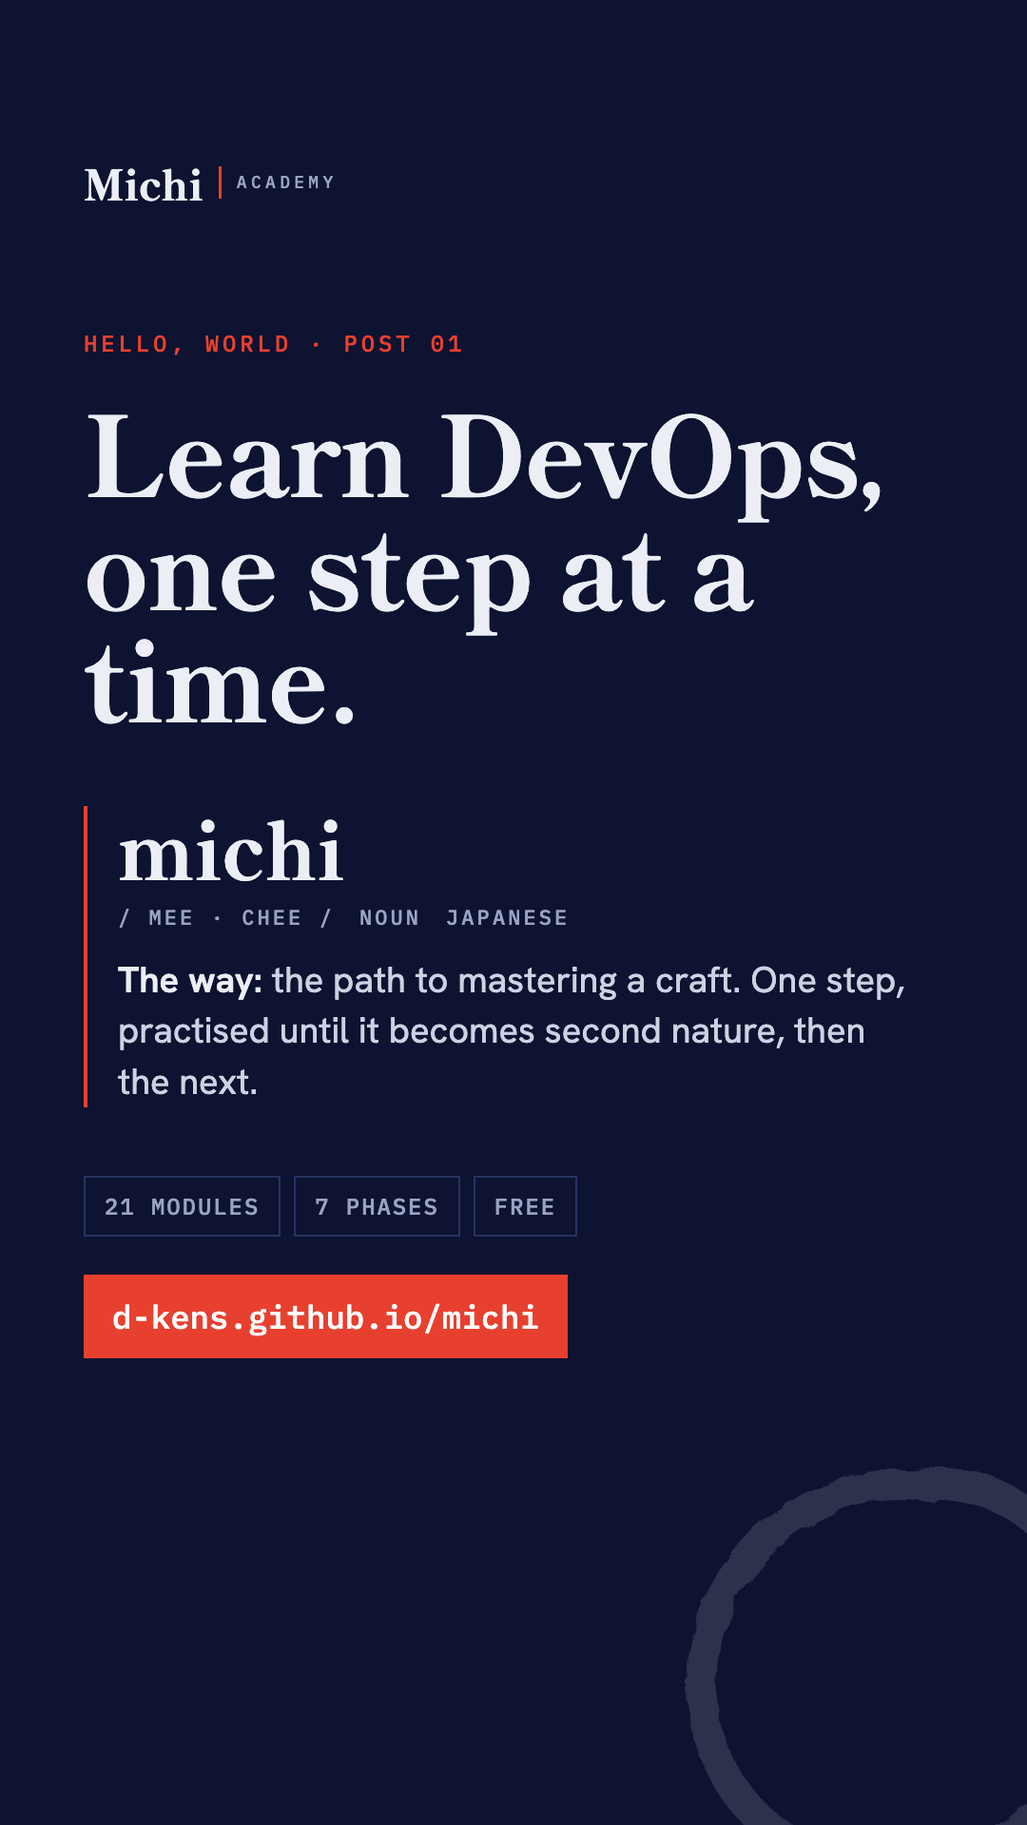
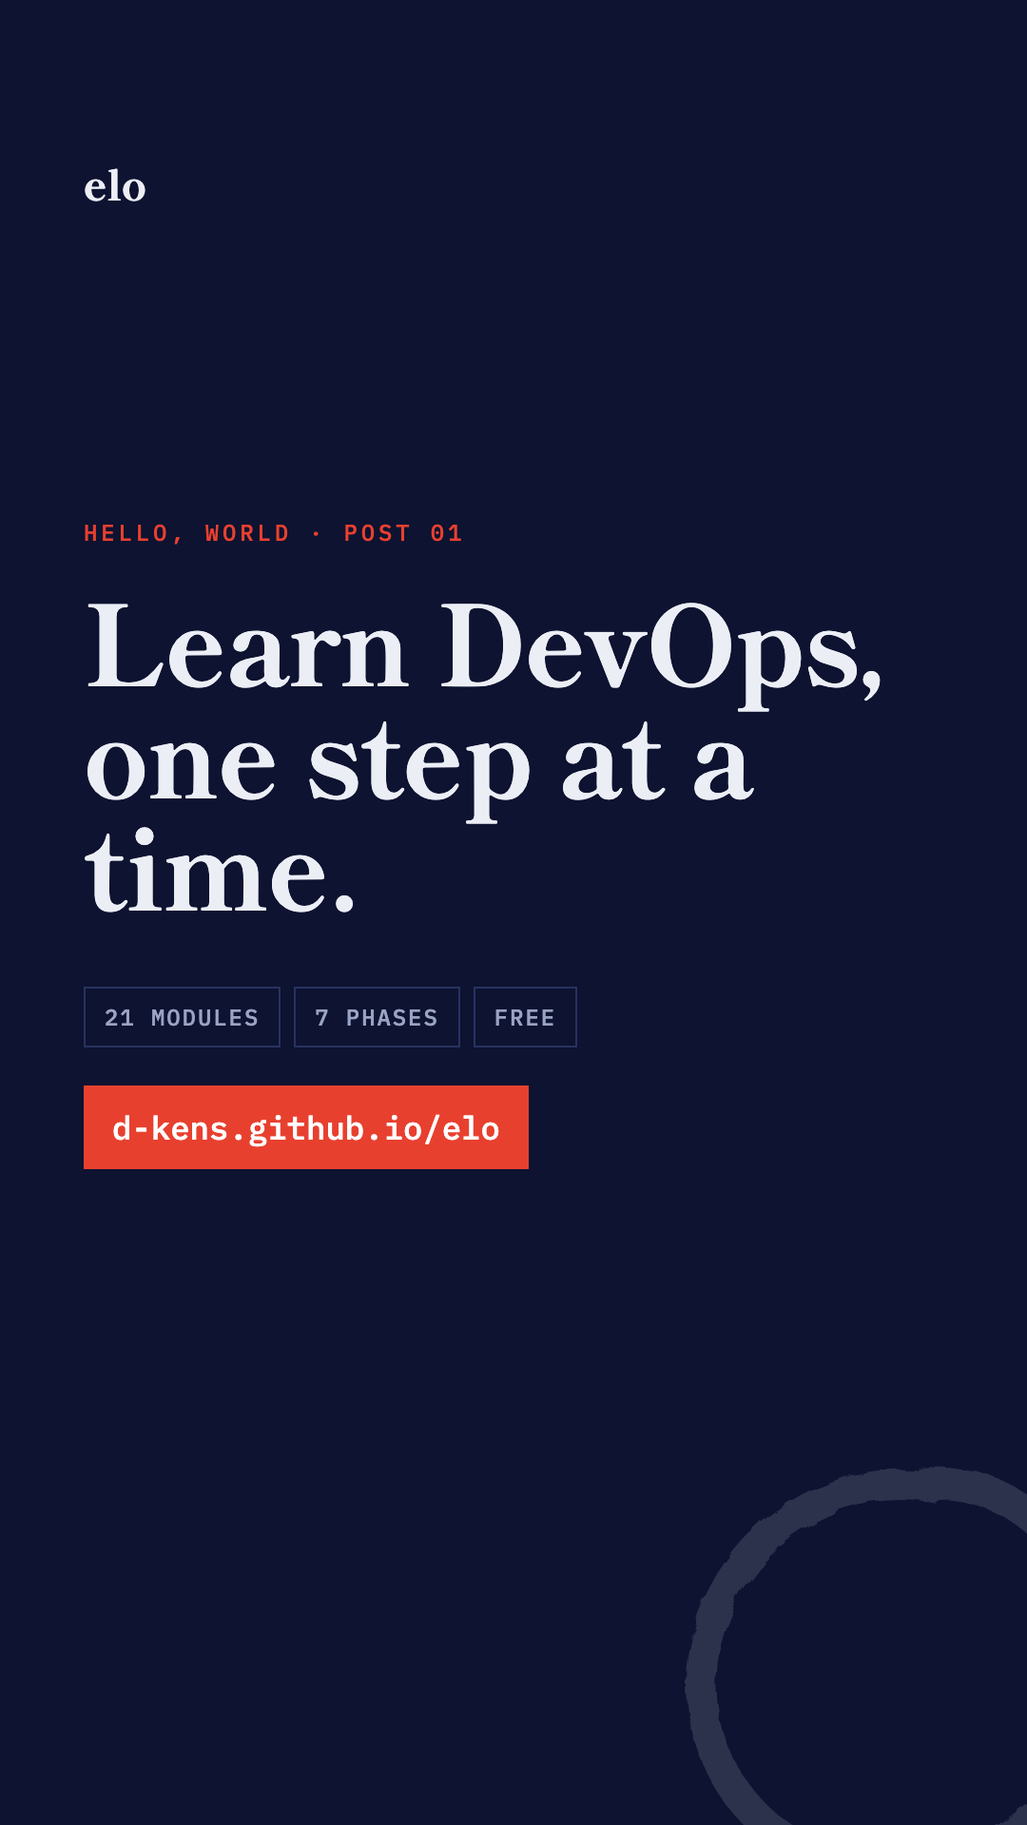
Rename the site to elo and drop the michi definition

Changed region(s): [[0.0611, 0.2188, 0.8861, 0.75], [0.0917, 0.0938, 0.2139, 0.125], [0.55, 0.4062, 0.6417, 0.4375]]

diff --git a/build.js b/build.js
@@ -8,9 +8,9 @@ const { marked } = require('./vendor/marked.min.js');
 const hljs = require('./vendor/highlight.min.js');
 const { NOTES, PHASES, MODULES } = require('./curriculum.js');
 
-const SITE = 'https://d-kens.github.io/michi';       /* the live address, without a trailing slash */
-const BASE = new URL(SITE).pathname + '/';              /* '/michi/': the 404 page needs absolute links */
-const NAME = 'Michi Academy';
+const SITE = 'https://d-kens.github.io/elo';       /* the live address, without a trailing slash */
+const BASE = new URL(SITE).pathname + '/';              /* '/elo/': the 404 page needs absolute links */
+const NAME = 'elo';
 const HOME_DESC = 'Learn DevOps, one step at a time. Detailed notes for a step-by-step path, from the DevOps mindset to running systems in production.';
 const ASSETS = ['styles.css', 'theme.js', 'search.js', 'notes.js', 'favicon.svg', 'og-image.png'];
 const LABEL = { published: 'Notes published', progress: 'In progress', coming: 'Coming' };
@@ -80,7 +80,7 @@ ${share}
 
 <div class="wrap">
   <nav aria-label="Site">
-    <a class="logo" href="${r}index.html" aria-label="${NAME}"><span class="logo-word" aria-hidden="true">Michi</span><span class="logo-rest" aria-hidden="true">Academy</span></a>
+    <a class="logo" href="${r}index.html" aria-label="${NAME}"><span class="logo-word" aria-hidden="true">elo</span></a>
     <ul>
       ${navLink('paths.html', 'The path', 'paths')}
       ${navLink('search.html', 'Search', 'search')}
@@ -202,7 +202,7 @@ fs.rmSync(OUT, { recursive: true, force: true });
 ASSETS.forEach((f) => { fs.mkdirSync(OUT, { recursive: true }); fs.copyFileSync(path.join(ROOT, f), path.join(OUT, f)); });
 
 write('index.html', layout({ url: '', description: HOME_DESC, body: read('src/pages/index.html').replace('<!-- PATH AT A GLANCE: filled in by build.js -->', glance()) }));
-write('search.html', layout({ url: 'search.html', title: 'Search', description: 'Search the Michi Academy DevOps notes and curriculum.',
+write('search.html', layout({ url: 'search.html', title: 'Search', description: 'Search the elo DevOps notes and curriculum.',
   current: 'search', body: read('src/pages/search.html'), scripts: ['search.js'] }));
 write('404.html', layout({ root: BASE, title: 'Page not found', noindex: true, body: read('src/pages/404.html').replace(/href="(?![a-z]+:|\/|#)/g, `href="${BASE}`) }));
 write('paths.html', layout({ url: 'paths.html', title: 'The path', current: 'paths', body: pathsPage(),
@@ -219,7 +219,7 @@ published.forEach((m) => {
   searchIndex.push(...notes.entries);
   write(`notes/${m.slug}.html`, layout({
     root: '../', url: `notes/${m.slug}.html`, title: m.title, ogType: 'article', current: 'paths', currentKind: 'true',
-    description: `Notes for Module ${m.num} of the Michi Academy DevOps path: ${m.title}. ${m.tags.join(', ')}.`,
+    description: `Notes for Module ${m.num} of the elo DevOps path: ${m.title}. ${m.tags.join(', ')}.`,
     body: notesPage(m, notes), scripts: ['notes.js']
   }));
 });

diff --git a/styles.css b/styles.css
@@ -31,10 +31,9 @@ button { font-family: inherit; }
 .link { font-weight: 700; text-decoration: underline; text-decoration-thickness: 2px; text-underline-offset: 6px; text-decoration-color: var(--red); }
 
 .wrap > nav { display: flex; align-items: center; justify-content: space-between; gap: 16px 28px; flex-wrap: wrap; padding-block: 24px; }
-/* wordmark: "Michi" in the display serif, "ACADEMY" in spaced mono caps, like the site's labels */
+/* wordmark: "elo" in the display serif */
 .logo { display: flex; align-items: center; gap: 12px; text-decoration: none; }
 .logo-word { font: 800 26px/1 var(--f-display); letter-spacing: -0.01em; }
-.logo-rest { font: 500 11.5px/1 var(--f-mono); letter-spacing: .24em; text-transform: uppercase; color: var(--muted); padding: 5px 0 5px 12px; margin-top: 3px; border-left: 2px solid var(--red); }
 .wrap > nav ul { display: flex; gap: 28px; list-style: none; margin: 0 0 0 auto; padding: 0; font: 500 12.5px var(--f-mono); letter-spacing: .12em; text-transform: uppercase; }
 .wrap > nav ul a { text-decoration: none; color: var(--muted); }
 .wrap > nav ul a:hover, .wrap > nav ul a[aria-current] { color: var(--fg); }
@@ -52,7 +51,6 @@ button { font-family: inherit; }
   .wrap > nav ul a[aria-current] { text-decoration: underline; text-decoration-color: var(--red); text-decoration-thickness: 2px; text-underline-offset: 6px; }
   .theme-toggle { width: 40px; height: 40px; margin: 0 0 0 4px; }
 }
-@media (max-width: 419px) { .logo-rest { display: none; } }
 
 /* home */
 .home { position: relative; }
@@ -73,16 +71,6 @@ section { padding-block: 88px; }
 @keyframes stamp { from { transform: scale(1.8); opacity: 0; } to { transform: scale(1); opacity: 1; } }
 @media (max-width: 899px) { .enso { right: -12%; top: 40px; width: min(90vw, 380px); opacity: .3; } .stamp { display: none; } }
 
-/* definition of the name */
-.home > .define { padding-block: 0 88px; }
-.define .entry { max-width: 48em; }
-.define .word { font: 800 clamp(32px, 4vw, 48px)/1.06 var(--f-display); letter-spacing: .01em; }
-.define .word span { color: var(--red); padding-inline: .05em; }
-.define .pron { display: flex; flex-wrap: wrap; gap: 6px 22px; margin-top: 8px; }
-.define .pron span + span::before { content: "·"; margin-right: 22px; color: var(--red); }
-.define .gloss { font: 500 16px/1.5 var(--f-display); margin-top: 12px; max-width: 38em; color: var(--muted); }
-.define .gloss em { font-style: normal; text-decoration: underline; text-decoration-color: var(--red); text-decoration-thickness: 2px; text-underline-offset: 5px; }
-@media (max-width: 860px) { .define .pron span + span::before { display: none; } }
 /* the path at a glance */
 .home > .glance { padding-top: 0; }
 .glance h2 { font-size: clamp(32px, 4.4vw, 54px); margin-top: 10px; }

diff --git a/brand/posts/src/tiktok-launch-1080x1920.html b/brand/posts/src/tiktok-launch-1080x1920.html
@@ -11,30 +11,19 @@ html,body{margin:0;background:var(--bg);color:var(--fg);overflow:hidden}
 .top,.body{position:relative;z-index:1}
 .logo{display:flex;align-items:center;gap:16px}
 .logo b{font:800 44px/1 var(--d)}
-.logo span{font:500 18px/1 var(--m);letter-spacing:.24em;color:var(--muted);padding:8px 0 8px 16px;border-left:3px solid var(--red)}
 .body{flex:1;display:flex;flex-direction:column;justify-content:center}
 .k{font:500 24px var(--m);letter-spacing:.16em;text-transform:uppercase;color:var(--red);margin-bottom:36px}
 h1{font:800 116px/1.02 var(--d);letter-spacing:-.01em}
-.def{margin-top:80px;padding-left:32px;border-left:4px solid var(--red)}
-.word{font:800 84px/1 var(--d)}
-.pron{display:flex;gap:26px;font:500 22px var(--m);letter-spacing:.14em;text-transform:uppercase;color:var(--muted);margin:18px 0 26px}
-.gloss{font:400 38px/1.4 var(--b);color:var(--read)}
-.gloss b{color:var(--fg);font-weight:600}
 .facts{display:flex;gap:14px;flex-wrap:wrap;margin-top:72px}
 .facts span{font:500 24px var(--m);letter-spacing:.08em;text-transform:uppercase;padding:14px 20px;border:2px solid var(--line);color:var(--muted)}
 .url{display:inline-block;margin-top:40px;font:500 34px var(--m);padding:22px 30px;background:var(--red);color:#fff}
 </style></head><body><div class="c">
 <svg class="enso" viewBox="0 0 520 520"><defs><filter id="r" x="-10%" y="-10%" width="120%" height="120%"><feTurbulence type="fractalNoise" baseFrequency="0.035" numOctaves="3" seed="7" result="n"/><feDisplacementMap in="SourceGraphic" in2="n" scale="9"/></filter></defs><g filter="url(#r)" fill="none" stroke-linecap="round" stroke="#eceef6"><path stroke-width="30" d="M 292 74 C 410 70 480 190 456 300 C 432 412 308 478 200 444 C 92 410 40 290 92 186 C 130 110 214 66 292 78"/></g></svg>
-<div class="top"><div class="logo"><b>Michi</b><span>ACADEMY</span></div></div>
+<div class="top"><div class="logo"><b>elo</b></div></div>
 <div class="body">
   <p class="k">Hello, world · Post 01</p>
   <h1>Learn DevOps, one step at a time.</h1>
-  <div class="def">
-    <p class="word">michi</p>
-    <p class="pron"><span>/ mee · chee /</span><span>noun</span><span>Japanese</span></p>
-    <p class="gloss"><b>The way:</b> the path to mastering a craft. One step, practised until it becomes second nature, then the next.</p>
-  </div>
   <div class="facts"><span>21 modules</span><span>7 phases</span><span>Free</span></div>
-  <p><span class="url">d-kens.github.io/michi</span></p>
+  <p><span class="url">d-kens.github.io/elo</span></p>
 </div>
 </div></body></html>

diff --git a/brand/src/banner-linkedin-1584x396.html b/brand/src/banner-linkedin-1584x396.html
@@ -9,4 +9,4 @@ h1{font:800 var(--h)/1.04 "Shippori Mincho B1",serif;margin:0}
 .w{font:800 calc(var(--k)*1.6) "Shippori Mincho B1",serif;letter-spacing:.01em;color:#eceef6}
 .enso{position:absolute}
 .t{position:absolute;z-index:1}
-.enso{left:70px;top:-120px;width:560px;opacity:.9}.t{right:80px;top:70px;text-align:right}.f{justify-content:flex-end}</style></head><body><div class="c" style="width:1584px;height:396px;--k:15px;--h:56px;--g:14px;--g2:22px"><svg class="enso" viewBox="0 0 520 520"><defs><filter id="r" x="-10%" y="-10%" width="120%" height="120%"><feTurbulence type="fractalNoise" baseFrequency="0.035" numOctaves="3" seed="7" result="n"/><feDisplacementMap in="SourceGraphic" in2="n" scale="9"/></filter></defs><g filter="url(#r)" fill="none" stroke-linecap="round" stroke="#eceef6"><path stroke-width="30" opacity=".92" d="M 292 74 C 410 70 480 190 456 300 C 432 412 308 478 200 444 C 92 410 40 290 92 186 C 130 110 214 66 292 78"/><path stroke-width="10" opacity=".5" d="M 300 96 C 398 100 452 196 432 290 C 410 392 304 450 212 420"/></g><rect x="396" y="406" width="64" height="64" rx="4" fill="#e8402f" transform="rotate(-4 428 438)"/></svg><div class="t"><h1>Learn DevOps,<br>one step at a time.</h1><div class="f"><span class="w">Michi Academy</span></div></div></div></body></html>
+.enso{left:70px;top:-120px;width:560px;opacity:.9}.t{right:80px;top:70px;text-align:right}.f{justify-content:flex-end}</style></head><body><div class="c" style="width:1584px;height:396px;--k:15px;--h:56px;--g:14px;--g2:22px"><svg class="enso" viewBox="0 0 520 520"><defs><filter id="r" x="-10%" y="-10%" width="120%" height="120%"><feTurbulence type="fractalNoise" baseFrequency="0.035" numOctaves="3" seed="7" result="n"/><feDisplacementMap in="SourceGraphic" in2="n" scale="9"/></filter></defs><g filter="url(#r)" fill="none" stroke-linecap="round" stroke="#eceef6"><path stroke-width="30" opacity=".92" d="M 292 74 C 410 70 480 190 456 300 C 432 412 308 478 200 444 C 92 410 40 290 92 186 C 130 110 214 66 292 78"/><path stroke-width="10" opacity=".5" d="M 300 96 C 398 100 452 196 432 290 C 410 392 304 450 212 420"/></g><rect x="396" y="406" width="64" height="64" rx="4" fill="#e8402f" transform="rotate(-4 428 438)"/></svg><div class="t"><h1>Learn DevOps,<br>one step at a time.</h1><div class="f"><span class="w">elo</span></div></div></div></body></html>

diff --git a/brand/src/banner-x-1500x500.html b/brand/src/banner-x-1500x500.html
@@ -9,4 +9,4 @@ h1{font:800 var(--h)/1.04 "Shippori Mincho B1",serif;margin:0}
 .w{font:800 calc(var(--k)*1.6) "Shippori Mincho B1",serif;letter-spacing:.01em;color:#eceef6}
 .enso{position:absolute}
 .t{position:absolute;z-index:1}
-.enso{left:40px;top:-140px;width:660px;opacity:.9}.t{right:80px;top:96px;text-align:right}.f{justify-content:flex-end}</style></head><body><div class="c" style="width:1500px;height:500px;--k:16px;--h:64px;--g:16px;--g2:26px"><svg class="enso" viewBox="0 0 520 520"><defs><filter id="r" x="-10%" y="-10%" width="120%" height="120%"><feTurbulence type="fractalNoise" baseFrequency="0.035" numOctaves="3" seed="7" result="n"/><feDisplacementMap in="SourceGraphic" in2="n" scale="9"/></filter></defs><g filter="url(#r)" fill="none" stroke-linecap="round" stroke="#eceef6"><path stroke-width="30" opacity=".92" d="M 292 74 C 410 70 480 190 456 300 C 432 412 308 478 200 444 C 92 410 40 290 92 186 C 130 110 214 66 292 78"/><path stroke-width="10" opacity=".5" d="M 300 96 C 398 100 452 196 432 290 C 410 392 304 450 212 420"/></g><rect x="396" y="406" width="64" height="64" rx="4" fill="#e8402f" transform="rotate(-4 428 438)"/></svg><div class="t"><h1>Learn DevOps,<br>one step at a time.</h1><div class="f"><span class="w">Michi Academy</span></div></div></div></body></html>
+.enso{left:40px;top:-140px;width:660px;opacity:.9}.t{right:80px;top:96px;text-align:right}.f{justify-content:flex-end}</style></head><body><div class="c" style="width:1500px;height:500px;--k:16px;--h:64px;--g:16px;--g2:26px"><svg class="enso" viewBox="0 0 520 520"><defs><filter id="r" x="-10%" y="-10%" width="120%" height="120%"><feTurbulence type="fractalNoise" baseFrequency="0.035" numOctaves="3" seed="7" result="n"/><feDisplacementMap in="SourceGraphic" in2="n" scale="9"/></filter></defs><g filter="url(#r)" fill="none" stroke-linecap="round" stroke="#eceef6"><path stroke-width="30" opacity=".92" d="M 292 74 C 410 70 480 190 456 300 C 432 412 308 478 200 444 C 92 410 40 290 92 186 C 130 110 214 66 292 78"/><path stroke-width="10" opacity=".5" d="M 300 96 C 398 100 452 196 432 290 C 410 392 304 450 212 420"/></g><rect x="396" y="406" width="64" height="64" rx="4" fill="#e8402f" transform="rotate(-4 428 438)"/></svg><div class="t"><h1>Learn DevOps,<br>one step at a time.</h1><div class="f"><span class="w">elo</span></div></div></div></body></html>

diff --git a/brand/src/github-social-1280x640.html b/brand/src/github-social-1280x640.html
@@ -9,4 +9,4 @@ h1{font:800 var(--h)/1.04 "Shippori Mincho B1",serif;margin:0}
 .w{font:800 calc(var(--k)*1.6) "Shippori Mincho B1",serif;letter-spacing:.01em;color:#eceef6}
 .enso{position:absolute}
 .t{position:absolute;z-index:1}
-.enso{right:50px;top:90px;width:470px}.t{left:84px;top:150px;max-width:720px}</style></head><body><div class="c" style="width:1280px;height:640px;--k:20px;--h:72px;--g:26px;--g2:44px"><svg class="enso" viewBox="0 0 520 520"><defs><filter id="r" x="-10%" y="-10%" width="120%" height="120%"><feTurbulence type="fractalNoise" baseFrequency="0.035" numOctaves="3" seed="7" result="n"/><feDisplacementMap in="SourceGraphic" in2="n" scale="9"/></filter></defs><g filter="url(#r)" fill="none" stroke-linecap="round" stroke="#eceef6"><path stroke-width="30" opacity=".92" d="M 292 74 C 410 70 480 190 456 300 C 432 412 308 478 200 444 C 92 410 40 290 92 186 C 130 110 214 66 292 78"/><path stroke-width="10" opacity=".5" d="M 300 96 C 398 100 452 196 432 290 C 410 392 304 450 212 420"/></g><rect x="396" y="406" width="64" height="64" rx="4" fill="#e8402f" transform="rotate(-4 428 438)"/></svg><div class="t"><h1>Learn DevOps,<br>one step at a time.</h1><div class="f"><span class="w">Michi Academy</span></div></div></div></body></html>
+.enso{right:50px;top:90px;width:470px}.t{left:84px;top:150px;max-width:720px}</style></head><body><div class="c" style="width:1280px;height:640px;--k:20px;--h:72px;--g:26px;--g2:44px"><svg class="enso" viewBox="0 0 520 520"><defs><filter id="r" x="-10%" y="-10%" width="120%" height="120%"><feTurbulence type="fractalNoise" baseFrequency="0.035" numOctaves="3" seed="7" result="n"/><feDisplacementMap in="SourceGraphic" in2="n" scale="9"/></filter></defs><g filter="url(#r)" fill="none" stroke-linecap="round" stroke="#eceef6"><path stroke-width="30" opacity=".92" d="M 292 74 C 410 70 480 190 456 300 C 432 412 308 478 200 444 C 92 410 40 290 92 186 C 130 110 214 66 292 78"/><path stroke-width="10" opacity=".5" d="M 300 96 C 398 100 452 196 432 290 C 410 392 304 450 212 420"/></g><rect x="396" y="406" width="64" height="64" rx="4" fill="#e8402f" transform="rotate(-4 428 438)"/></svg><div class="t"><h1>Learn DevOps,<br>one step at a time.</h1><div class="f"><span class="w">elo</span></div></div></div></body></html>

diff --git a/brand/src/og-image-1200x630.html b/brand/src/og-image-1200x630.html
@@ -9,4 +9,4 @@ h1{font:800 var(--h)/1.04 "Shippori Mincho B1",serif;margin:0}
 .w{font:800 calc(var(--k)*1.6) "Shippori Mincho B1",serif;letter-spacing:.01em;color:#eceef6}
 .enso{position:absolute}
 .t{position:absolute;z-index:1}
-.enso{right:60px;top:110px;width:420px;opacity:.9}.t{left:90px;top:150px}</style></head><body><div class="c" style="width:1200px;height:630px;--k:20px;--h:84px;--g:16px;--g2:44px"><svg class="enso" viewBox="0 0 520 520"><defs><filter id="r" x="-10%" y="-10%" width="120%" height="120%"><feTurbulence type="fractalNoise" baseFrequency="0.035" numOctaves="3" seed="7" result="n"/><feDisplacementMap in="SourceGraphic" in2="n" scale="9"/></filter></defs><g filter="url(#r)" fill="none" stroke-linecap="round" stroke="#eceef6"><path stroke-width="30" opacity=".92" d="M 292 74 C 410 70 480 190 456 300 C 432 412 308 478 200 444 C 92 410 40 290 92 186 C 130 110 214 66 292 78"/><path stroke-width="10" opacity=".5" d="M 300 96 C 398 100 452 196 432 290 C 410 392 304 450 212 420"/></g><rect x="396" y="406" width="64" height="64" rx="4" fill="#e8402f" transform="rotate(-4 428 438)"/></svg><div class="t"><h1>Learn DevOps,<br>one step at a time.</h1><div class="f"><span class="w">Michi Academy</span></div></div></div></body></html>
+.enso{right:60px;top:110px;width:420px;opacity:.9}.t{left:90px;top:150px}</style></head><body><div class="c" style="width:1200px;height:630px;--k:20px;--h:84px;--g:16px;--g2:44px"><svg class="enso" viewBox="0 0 520 520"><defs><filter id="r" x="-10%" y="-10%" width="120%" height="120%"><feTurbulence type="fractalNoise" baseFrequency="0.035" numOctaves="3" seed="7" result="n"/><feDisplacementMap in="SourceGraphic" in2="n" scale="9"/></filter></defs><g filter="url(#r)" fill="none" stroke-linecap="round" stroke="#eceef6"><path stroke-width="30" opacity=".92" d="M 292 74 C 410 70 480 190 456 300 C 432 412 308 478 200 444 C 92 410 40 290 92 186 C 130 110 214 66 292 78"/><path stroke-width="10" opacity=".5" d="M 300 96 C 398 100 452 196 432 290 C 410 392 304 450 212 420"/></g><rect x="396" y="406" width="64" height="64" rx="4" fill="#e8402f" transform="rotate(-4 428 438)"/></svg><div class="t"><h1>Learn DevOps,<br>one step at a time.</h1><div class="f"><span class="w">elo</span></div></div></div></body></html>

diff --git a/brand/src/banner-youtube-2560x1440.html b/brand/src/banner-youtube-2560x1440.html
@@ -9,4 +9,4 @@ h1{font:800 var(--h)/1.04 "Shippori Mincho B1",serif;margin:0}
 .w{font:800 calc(var(--k)*1.6) "Shippori Mincho B1",serif;letter-spacing:.01em;color:#eceef6}
 .enso{position:absolute}
 .t{position:absolute;z-index:1}
-.enso{left:540px;top:520px;width:400px}.t{left:1010px;top:590px}</style></head><body><div class="c" style="width:2560px;height:1440px;--k:20px;--h:76px;--g:18px;--g2:30px"><svg class="enso" viewBox="0 0 520 520"><defs><filter id="r" x="-10%" y="-10%" width="120%" height="120%"><feTurbulence type="fractalNoise" baseFrequency="0.035" numOctaves="3" seed="7" result="n"/><feDisplacementMap in="SourceGraphic" in2="n" scale="9"/></filter></defs><g filter="url(#r)" fill="none" stroke-linecap="round" stroke="#eceef6"><path stroke-width="30" opacity=".92" d="M 292 74 C 410 70 480 190 456 300 C 432 412 308 478 200 444 C 92 410 40 290 92 186 C 130 110 214 66 292 78"/><path stroke-width="10" opacity=".5" d="M 300 96 C 398 100 452 196 432 290 C 410 392 304 450 212 420"/></g><rect x="396" y="406" width="64" height="64" rx="4" fill="#e8402f" transform="rotate(-4 428 438)"/></svg><div class="t"><h1>Learn DevOps,<br>one step at a time.</h1><div class="f"><span class="w">Michi Academy</span></div></div></div></body></html>
+.enso{left:540px;top:520px;width:400px}.t{left:1010px;top:590px}</style></head><body><div class="c" style="width:2560px;height:1440px;--k:20px;--h:76px;--g:18px;--g2:30px"><svg class="enso" viewBox="0 0 520 520"><defs><filter id="r" x="-10%" y="-10%" width="120%" height="120%"><feTurbulence type="fractalNoise" baseFrequency="0.035" numOctaves="3" seed="7" result="n"/><feDisplacementMap in="SourceGraphic" in2="n" scale="9"/></filter></defs><g filter="url(#r)" fill="none" stroke-linecap="round" stroke="#eceef6"><path stroke-width="30" opacity=".92" d="M 292 74 C 410 70 480 190 456 300 C 432 412 308 478 200 444 C 92 410 40 290 92 186 C 130 110 214 66 292 78"/><path stroke-width="10" opacity=".5" d="M 300 96 C 398 100 452 196 432 290 C 410 392 304 450 212 420"/></g><rect x="396" y="406" width="64" height="64" rx="4" fill="#e8402f" transform="rotate(-4 428 438)"/></svg><div class="t"><h1>Learn DevOps,<br>one step at a time.</h1><div class="f"><span class="w">elo</span></div></div></div></body></html>

diff --git a/src/pages/index.html b/src/pages/index.html
@@ -4,11 +4,6 @@
     <p class="lead">Detailed notes for a step-by-step path, from the DevOps mindset to running systems in production. Follow along at your own pace.</p>
     <div class="cta"><a class="btn" href="notes/devops-mindset.html">Start with Module 01</a><a class="link" href="paths.html">See the full path</a></div>
   </header>
-  <section class="define" aria-labelledby="def-word"><div class="entry">
-    <p class="word" id="def-word">michi</p>
-    <p class="mono pron"><span>/ mee · chee /</span><span>noun</span><span>Japanese</span></p>
-    <p class="gloss">The way: the path to mastering a craft. Take one step, practise it until it becomes second nature, then take the next. There are no shortcuts.</p>
-  </div></section>
   <!-- PATH AT A GLANCE: filled in by build.js -->
   <section class="notify" id="notify" aria-labelledby="notify-title">
     <div>

diff --git a/curriculum.js b/curriculum.js
@@ -1,4 +1,4 @@
-/* Michi Academy curriculum: read by build.js to make the path page, the notes pages and the search index. */
+/* elo curriculum: read by build.js to make the path page, the notes pages and the search index. */
 (function () {
   /* ---------- publishing status ----------
      When you publish notes for a module:

diff --git a/README.md b/README.md
@@ -1,8 +1,8 @@
-# Michi Academy
+# elo
 
 Learn DevOps, one step at a time. A static site of detailed notes for a step-by-step path, from the DevOps mindset to running systems in production.
 
-Live at <https://d-kens.github.io/michi/>.
+Live at <https://d-kens.github.io/elo/>.
 
 ## Run it locally
 
@@ -40,4 +40,4 @@ Old links like `notes.html?m=linux` redirect to `notes/linux.html`.
 
 ## Search engines
 
-The build writes `sitemap.xml`. Submit `https://d-kens.github.io/michi/sitemap.xml` in Google Search Console. A project site can't serve its own `robots.txt`, so the sitemap has to be submitted by hand.
+The build writes `sitemap.xml`. Submit `https://d-kens.github.io/elo/sitemap.xml` in Google Search Console. A project site can't serve its own `robots.txt`, so the sitemap has to be submitted by hand.
